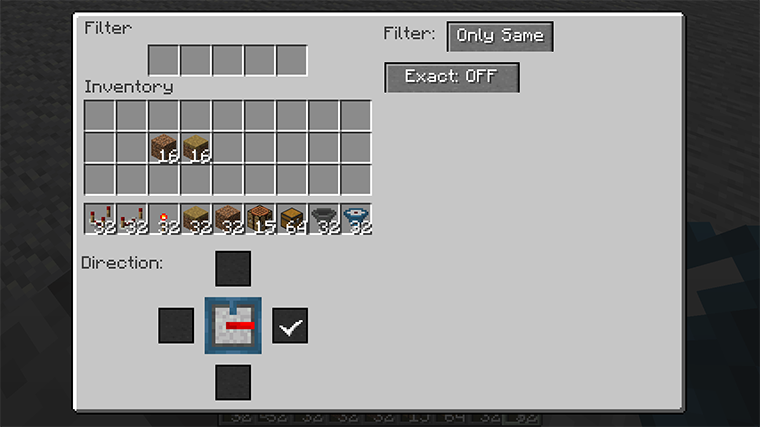
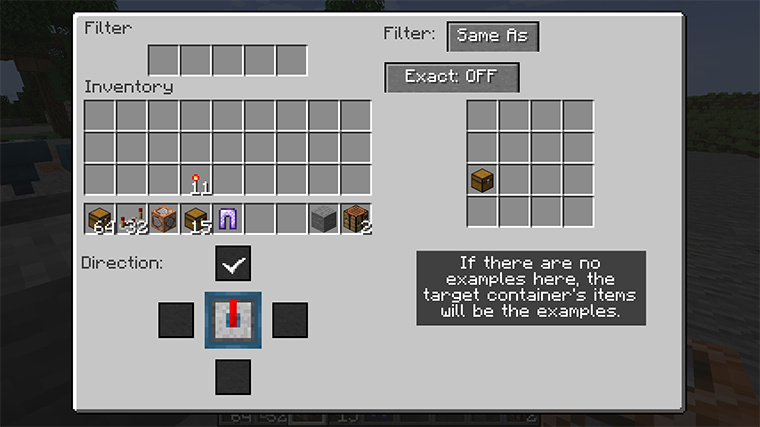
updating to 1.2

diff --git a/site/index.html b/site/index.html
@@ -1,164 +1,164 @@
 <html lang="en">
 
 <head>
-  <meta charset="utf-8">
-  <title>Philter filtering mod</title>
-  <link rel="stylesheet" type="text/css" href="style.css">
-  <meta name="description"
-        content="Philter's filter gives you a super hopper that will filter certain items to a different place"/>
-  <meta name="keywords" content="philter, filter">
-  <meta name="keywords" content="minecraft, game, mod, fiber">
+    <meta charset="utf-8">
+    <title>Philter filtering mod</title>
+    <link rel="stylesheet" type="text/css" href="style.css">
+    <meta name="description"
+          content="Philter's filter gives you a super hopper that will filter certain items to a different place"/>
+    <meta name="keywords" content="philter, filter">
+    <meta name="keywords" content="minecraft, game, mod, fiber">
 </head>
 
-<!-- version: 1.1 -->
+<!-- version: 1.2 -->
 
 <body>
 <div class="outer">
 
-  <div class="heading">
-    <h1>Philter</h1>
-    <h3>A Filtering super-hopper</h3>
-    <i>Version 1.1</i>
-  </div>
-
-  <div class="menu">
-    <table summary="Site links">
-      <tr>
-        <td class="tablinks Overview" onclick="openTab(event, 'Overview')">Overview</td>
-        <td class="tablinks Downloads" onclick="openTab(event, 'Downloads')">Downloads</td>
-      </tr>
-    </table>
-  </div>
-
-  <div id="Overview" class="tabcontent">
-    <p>
-      The Philter mod gives you a filter super-hopper that works with vanilla Minecraft or any mod.
-      Any kind of items can be diverted into a different
-      output container. Otherwise, it just passes them along like any other hopper.
-
-    <p>
-      Here's what it looks like in action:
-      <img src="visual.png" alt="a filter in place">
-
-    <p>
-      Overall the filter is a steel-blue hopper, and it has a redstone insert that does the
-      filtering. The blue
-      tab on the filter's top shows where normal items are directed. The redstone stripe flashes
-      when an item
-      is instead filtered to the hopper on the right.
-
-    <p>
-      You can set up the filter using its UI:
-      <img src="only_same_mode.png" alt="filter UI in 'Only Same' mode">
-
-    <p>
-      The area in the upper left is the basic hopper UI, and works just the same. On the right is
-      the filter
-      configuration. Here it is in "Only Same" mode, which means it will only put items into the
-      filter that
-      are already present in the target container. So if the target hopper has planks of every type,
-      only planks
-      will be diverted, and other item will continue onward.
-
-    <p>
-      The "Exact" button is off, so modifications will be ignored. If the target had iron
-      chestplate, this would allow
-      damaged or enchanted iron chestplates to also be put in the target. If "Exact" were on, only
-      chestplate that had
-      the same damage and enchantment would be diverted.
-
-    <p>
-      The other primary mode is "Match", where you specify tags and regular expressions to tell the
-      filter what to do:
-      <img src="matches_mode.png" alt="filter UI in 'Only Same' mode">
-
-    <p>
-      Here we've told the filter to match blocks that are covered by the tag "#wool" (all kinds of
-      wool) plus anything
-      that has "dirt" in the name. "Any of" can be switched to "All of", which would mean the item
-      would have to both
-      match "#wool" and have "dirt" in the name (which nothing does, so ...).
-
-    <p>
-      In "Match" mode, "Exact" means that NBT value will be included when string matching. So you
-      could match any item
-      that was enchanted with the pattern ".*Enchantments.*" because that string appears in the NBT
-      of enchanted items.
-
-    <p><a href="https://minecraft.fandom.com/wiki/Tag?so=search#Java_Edition_2">The list of standard
-      tags</a> will probably be helpful.
-      As for regular expressions, there are many tutorials on the web. Generally, text matches the
-      same text except for special symbols.
-      The most important are:
-    <ul>
-      <li><b><code>.</code></b> matches any single character, so "d.rt" matches both "dirt" and
-        "dart".
-      <li><b><code>*</code></b> means "zero or more repetitions", so ".*" means "zero or more of any
-        characters".
-      <li><b><code>^</code></b> matches the start of the text, so you could say "anything whose name
-        starts with blue" with the pattern "^blue.*", which would not match light blue things.
-      <li><b><code>$</code></b> matches the end of the text.
-    </ul>
-
-    The filter finds a match anywhere in the string unless you anchor it to the start and/or end of
-    the text. It also ignores
-    the case of the text, so "enchantments" would match both "enchantments" and "Enchantments".
-
-    <p>
-      Finally, the mode "None" just turns off the filtering entirely.
-
-    <p>
-      The third part of the UI, the part below your inventory, allows you to change the direction of
-      the filter. Like
-      a hopper, a filter can point in any direction but up, but also it cannot point in the same
-      direction as the regular
-      hopper output. When you place a filter, the filtered output is defined by how you're pointing,
-      but you can change
-      it afterwards using this part of the UI.
-
-  </div>
-
-  <div id="Downloads" class="tabcontent">
-    <p>
-    <div class="menu">
-      <table class="downloads" summary="downloads">
-        <tr>
-          <td onclick="window.location='philter-1.1.jar'">
-            <div>
-              <img src="logo_128.png" alt="philter"/> Download Philter
-            </div>
-          </td>
-        </tr>
-      </table>
+    <div class="heading">
+        <h1>Philter</h1>
+        <h3>A Filtering super-hopper</h3>
+        <i>Version 1.2</i>
     </div>
-  </div>
 
-  <div class="menu">
-    <table summary="Site links">
-      <tr>
-        <td class="tablinks Overview" onclick="openTab(event, 'Overview')">Overview</td>
-        <td class="tablinks Downloads" onclick="openTab(event, 'Downloads')">Downloads</td>
-      </tr>
-    </table>
-  </div>
+    <div class="menu">
+        <table summary="Site links">
+            <tr>
+                <td class="tablinks Overview" onclick="openTab(event, 'Overview')">Overview</td>
+                <td class="tablinks Downloads" onclick="openTab(event, 'Downloads')">Downloads</td>
+            </tr>
+        </table>
+    </div>
 
-  <!--CopyrightBegin -->
-<p class="license"><a rel="license" href="http://creativecommons.org/licenses/by/4.0/">
-    <img align="right"
-         alt="Creative Commons License"
-         style="border-width:0"
-         src="https://i.creativecommons.org/l/by/4.0/88x31.png"/></a>
-    <span
-        property="dct:title">Philter Mod for Minecraft</span> by <a
-        href="claritypack.com/philter" property="cc:attributionName"
-        rel="cc:attributionURL">claritypack.com/philter</a>
-    <br>is licensed under a <a rel="license"
-                               href="http://creativecommons.org/licenses/by/4.0/">Creative
-        Commons Attribution 4.0 International License</a>.
-    <br>© 2022-2023 by Ken Arnold. Based on a work at <a
-        href="https://github.com/kcrca/philter" rel="dct:source">https://github.com/kcrca/philter</a>.
-    <!--CopyrightEnd-->
-  <p class="timestamp">Page Last Edited: Jan 18 01:57:02 2023
+    <div id="Overview" class="tabcontent">
+        <p>
+            The Philter mod gives you a filter super-hopper that works with vanilla Minecraft or any mod.
+            Any kind of items can be diverted into a different
+            output container. Otherwise, it just passes them along like any other hopper.
+
+        <p>
+            Here's what it looks like in action:
+            <img src="visual.png" alt="a filter in place">
+
+        <p>
+            Overall the filter is a steel-blue hopper, and it has a redstone insert that does the
+            filtering. The blue
+            tab on the filter's top shows where normal items are directed. The redstone stripe flashes
+            when an item
+            is instead filtered to the hopper on the right.
+
+        <p>
+            You can set up the filter using its UI:
+            <img src="only_same_mode.png" alt="filter UI in 'Only Same' mode">
+
+        <p>
+            The area in the upper left is the basic hopper UI, and works just the same. On the right is
+            the filter
+            configuration. Here it is in "Same As" mode, which means it will only put items into the
+            filter that match examples. These examples can be set by putting objects in the filter itself.
+            Or the items already in the object container can be used as the examples instead.
+            So if the filter has planks of every type, or if it has nothing and the target container has them,
+            then planks will be diverted, and other items will continue onward.
+
+        <p>
+            The "Exact" button is off, so modifications will be ignored. If the examples included iron
+            chestplate, this would allow
+            damaged or enchanted iron chestplates to also be put in the target. If "Exact" were on, only
+            chestplate that had
+            the same damage and enchantment would be diverted.
+
+        <p>
+            The other primary mode is "Match", where you specify tags and regular expressions to tell the
+            filter what to do:
+            <img src="matches_mode.png" alt="filter UI in 'Only Same' mode">
+
+        <p>
+            Here we've told the filter to match blocks that are covered by the tag "#wool" (all kinds of
+            wool) plus anything
+            that has "dirt" in the name. "Any of" can be switched to "All of", which would mean the item
+            would have to both
+            match "#wool" and have "dirt" in the name (which nothing does, so ...).
+
+        <p>
+            In "Match" mode, "Exact" means that NBT value will be included when string matching. So you
+            could match any item
+            that was enchanted with the pattern ".*Enchantments.*" because that string appears in the NBT
+            of enchanted items.
+
+        <p><a href="https://minecraft.fandom.com/wiki/Tag?so=search#Java_Edition_2">The list of standard
+            tags</a> will probably be helpful.
+            As for regular expressions, there are many tutorials on the web. Generally, text matches the
+            same text except for special symbols.
+            The most important are:
+        <ul>
+            <li><b><code>.</code></b> matches any single character, so "d.rt" matches both "dirt" and
+                "dart".
+            <li><b><code>*</code></b> means "zero or more repetitions", so ".*" means "zero or more of any
+                characters".
+            <li><b><code>^</code></b> matches the start of the text, so you could say "anything whose name
+                starts with blue" with the pattern "^blue.*", which would not match light blue things.
+            <li><b><code>$</code></b> matches the end of the text.
+        </ul>
+
+        The filter finds a match anywhere in the string unless you anchor it to the start and/or end of
+        the text. It also ignores
+        the case of the text, so "enchantments" would match both "enchantments" and "Enchantments".
+
+        <p>
+            Finally, the mode "None" just turns off the filtering entirely.
+
+        <p>
+            The third part of the UI, the part below your inventory, allows you to change the direction of
+            the filter. Like
+            a hopper, a filter can point in any direction but up, but also it cannot point in the same
+            direction as the regular
+            hopper output. When you place a filter, the filtered output is defined by how you're pointing,
+            but you can change
+            it afterwards using this part of the UI.
+
+    </div>
+
+    <div id="Downloads" class="tabcontent">
+        <p>
+        <div class="menu">
+            <table class="downloads" summary="downloads">
+                <tr>
+                    <td onclick="window.location='philter-1.2.jar'">
+                        <div>
+                            <img src="logo_128.png" alt="philter"/> Download Philter
+                        </div>
+                    </td>
+                </tr>
+            </table>
+        </div>
+    </div>
+
+    <div class="menu">
+        <table summary="Site links">
+            <tr>
+                <td class="tablinks Overview" onclick="openTab(event, 'Overview')">Overview</td>
+                <td class="tablinks Downloads" onclick="openTab(event, 'Downloads')">Downloads</td>
+            </tr>
+        </table>
+    </div>
+
+    <!--CopyrightBegin -->
+    <p class="license"><a rel="license" href="http://creativecommons.org/licenses/by/4.0/">
+        <img align="right"
+             alt="Creative Commons License"
+             style="border-width:0"
+             src="https://i.creativecommons.org/l/by/4.0/88x31.png"/></a>
+        <span
+                property="dct:title">Philter Mod for Minecraft</span> by <a
+                href="claritypack.com/philter" property="cc:attributionName"
+                rel="cc:attributionURL">claritypack.com/philter</a>
+        <br>is licensed under a <a rel="license"
+                                   href="http://creativecommons.org/licenses/by/4.0/">Creative
+            Commons Attribution 4.0 International License</a>.
+        <br>© 2022-2023 by Ken Arnold. Based on a work at <a
+                href="https://github.com/kcrca/philter" rel="dct:source">https://github.com/kcrca/philter</a>.
+        <!--CopyrightEnd-->
+    <p class="timestamp">Page Last Edited: Jan 21 01:47:18 2023
 
 </div>
 
@@ -190,10 +190,6 @@ if (!tab_name) {
 document.addEventListener("DOMContentLoaded", function(event) { 
     openTab(null, tab_name);
 });
-
-
-
-
 
 </script>
 </body>

diff --git a/CHANGELOG.md b/CHANGELOG.md
@@ -1,1 +1,2 @@
 1.1: Use accessWidener to get access instead of reflection
+1.2: Put slots in the filter itself for examples
